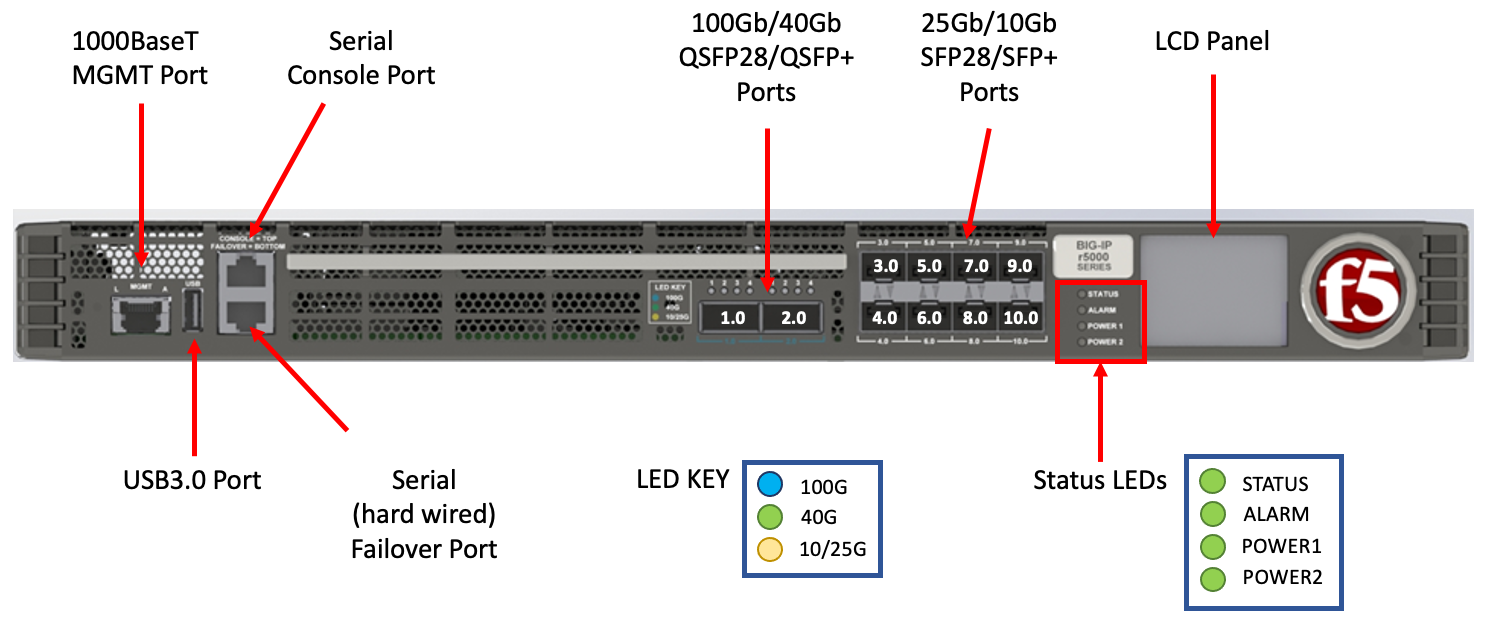
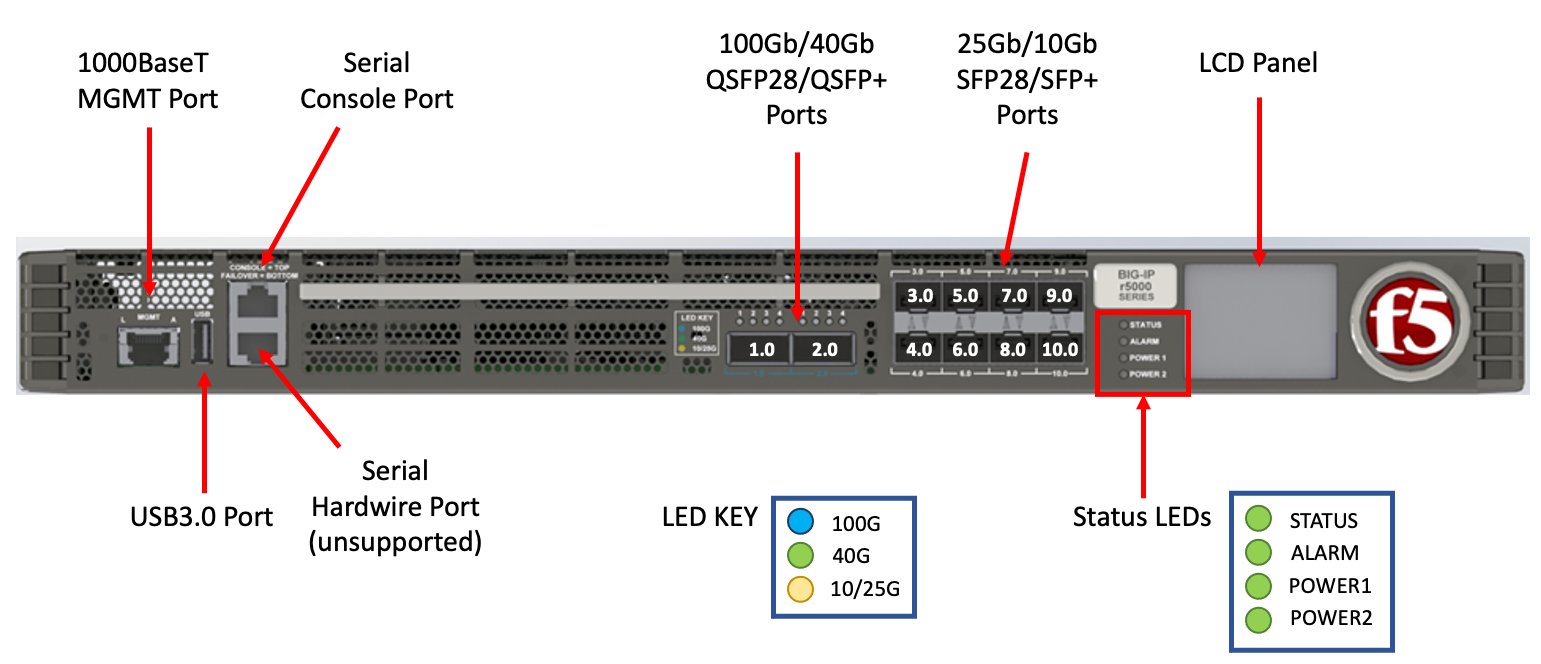
appliances

diff --git a/docs/rseries_appliances.rst b/docs/rseries_appliances.rst
@@ -71,7 +71,7 @@ Note that adjacent highspeed (40Gb / 100Gb) ports (**1.0** & **2.0**) must be co
   :align: center
   :scale: 100%
 
-The r5000 Series unit has a single 10Gb Ethernet out-of-band management port and a serial console port, and a serial (hard wired) failover port which is not utilized or supported. A USB3.0 port is also made available for recovering/reinstalling system software. LEDs will change color to indicate different port speeds, and high level LEDs provide Status, Alarm, and Power Supply Status. The appliance also has an LCD panel.
+The r5000 has a single 10Gb Ethernet out-of-band management port and a serial console port, and a serial (hard wired) failover port which is not utilized or supported. A USB3.0 port is also made available for recovering/reinstalling system software. LEDs will change color to indicate different port speeds, and high level LEDs provide Status, Alarm, and Power Supply Status. The appliance also has an LCD panel.
 
 .. image:: images/rseries_appliances/image2c.png
   :align: center
